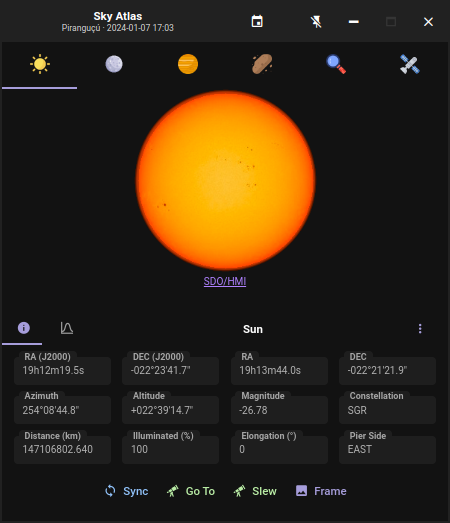
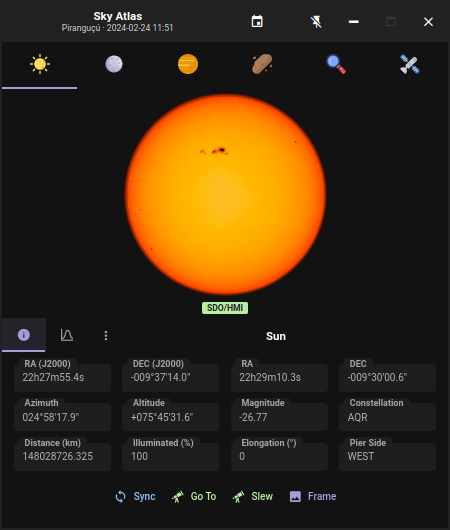
[desktop]: Fix window auto resize for Sky Atlas

diff --git a/desktop/src/app/atlas/atlas.component.html b/desktop/src/app/atlas/atlas.component.html
@@ -7,9 +7,11 @@
                         <img src="assets/icons/sun.png">
                     </div>
                 </ng-template>
-                <div class="grid flex flex-column align-items-center justify-content-center" style="height: 206px;">
-                    <img #imageOfSun style="width: 191px">
-                    <a class="text-sm" target="_blank" href="https://sdo.gsfc.nasa.gov/assets/img/latest/latest_1024_HMIIC.jpg">SDO/HMI</a>
+                <div class="grid flex flex-column align-items-center justify-content-center" style="height: 235px;">
+                    <img #imageOfSun style="width: 215px">
+                    <a class="text-sm" target="_blank" href="https://sdo.gsfc.nasa.gov/assets/img/latest/latest_1024_HMIIC.jpg">
+                        <p-tag severity="success">SDO/HMI</p-tag>
+                    </a>
                 </div>
             </p-tabPanel>
             <p-tabPanel header="Moon" [disabled]="refreshing">
@@ -18,8 +20,8 @@
                         <img src="assets/icons/moon.png">
                     </div>
                 </ng-template>
-                <div class="grid flex align-items-center justify-content-center" style="height: 206px;">
-                    <neb-moon [width]="187" [height]="187" [illuminationRatio]="moonIlluminated" [waning]="moonWaning" />
+                <div class="grid flex align-items-center justify-content-center" style="height: 235px;">
+                    <neb-moon [width]="215" [height]="215" [illuminationRatio]="moonIlluminated" [waning]="moonWaning" />
                 </div>
             </p-tabPanel>
             <p-tabPanel header="Planets" [disabled]="refreshing">
@@ -96,8 +98,10 @@
                             <input type="text" pInputText class="p-inputtext-sm border-0 w-full" [(ngModel)]="skyObjectSearchText" />
                             <label>Search</label>
                         </span>
-                        <p-button [disabled]="refreshing" (onClick)="searchSkyObject()" icon="mdi mdi-magnify" size="small" severity="info" />
-                        <p-button [disabled]="refreshing" (onClick)="showSkyObjectFilterDialog()" icon="mdi mdi-filter" size="small" />
+                        <div class="flex flex-row gap-1">
+                            <p-button [disabled]="refreshing" (onClick)="searchSkyObject()" icon="mdi mdi-magnify" size="small" severity="info" />
+                            <p-button [disabled]="refreshing" (onClick)="showSkyObjectFilterDialog()" icon="mdi mdi-filter" size="small" />
+                        </div>
                     </div>
                 </div>
                 <div class="flex align-items-center justify-content-center mt-2 px-1">
@@ -136,10 +140,12 @@
                             <input type="text" pInputText class="p-inputtext-sm border-0 w-full" [(ngModel)]="satelliteSearchText" />
                             <label>Search</label>
                         </span>
-                        <p-button [disabled]="refreshing" (onClick)="searchSatellite()" icon="mdi mdi-magnify"
-                                  size="small" severity="info" />
-                        <p-button [disabled]="refreshing" (onClick)="showSatelliteFilterDialog = true" icon="mdi mdi-filter"
-                                  size="small" />
+                        <div class="flex flex-row gap-1">
+                            <p-button [disabled]="refreshing" (onClick)="searchSatellite()" icon="mdi mdi-magnify"
+                                      size="small" severity="info" />
+                            <p-button [disabled]="refreshing" (onClick)="showSatelliteFilterDialog = true" icon="mdi mdi-filter"
+                                      size="small" />
+                        </div>
                     </div>
                 </div>
                 <div class="flex align-items-center justify-content-center mt-2 px-1">
@@ -267,13 +273,13 @@
             </div>
         </p-tabPanel>
     </p-tabView>
-    <div class="col-9 flex align-items-center justify-content-between absolute" style="height: 32px; right: 14px; top: 2px;">
-        <span class="flex w-full align-items-center gap-2 justify-content-center">
+    <div class="col-9 flex align-items-center justify-content-between absolute gap-2" style="height: 32px; left: 90px; top: 2px;">
+        <p-button [disabled]="!name || refreshing" [text]="true" [rounded]="true" icon="mdi mdi-md mdi-dots-vertical"
+                  (click)="ephemerisMenu.show()" />
+        <span class="flex w-full align-items-center gap-1 justify-content-center">
             <span class="text-overflow-scroll font-bold">{{ name ?? '' }}</span>
             <p-tag *ngFor="let tag of tags" [severity]="tag.severity" [value]="tag.title" />
         </span>
-        <p-button [disabled]="!name || refreshing" [text]="true" [rounded]="true" icon="mdi mdi-md mdi-dots-vertical"
-                  (click)="ephemerisMenu.show()" />
     </div>
 </div>
 

diff --git a/desktop/app/main.ts b/desktop/app/main.ts
@@ -135,7 +135,7 @@ function createWindow(options: OpenWindow<any>, parent?: BrowserWindow) {
             nodeIntegration: true,
             allowRunningInsecureContent: serve,
             contextIsolation: false,
-            additionalArguments: [`--port=${apiPort}`, `--id=${options.id}`, `--modal=${options.modal ?? false}`],
+            additionalArguments: [`--port=${apiPort}`, `--options=${Buffer.from(JSON.stringify(options)).toString('base64')}`],
             preload: path.join(__dirname, 'preload.js'),
             devTools: serve,
         },
@@ -168,7 +168,7 @@ function createWindow(options: OpenWindow<any>, parent?: BrowserWindow) {
         }
     })
 
-    if (!serve && window.isResizable()) {
+    if (!serve && window.isResizable() && options.autoResizable !== false) {
         window.on('resized', () => {
             if (window) {
                 const [width, height] = window.getSize()
@@ -438,7 +438,7 @@ try {
         const maxHeight = screen.getPrimaryDisplay().workAreaSize.height
         const height = Math.max(0, Math.min(data, maxHeight))
         window.setSize(size[0], height)
-        console.info('window resized', size[0], height)
+        console.info('window resized:', size[0], height)
 
         return true
     })

diff --git a/desktop/src/app/app.component.ts b/desktop/src/app/app.component.ts
@@ -18,7 +18,7 @@ export class AppComponent implements AfterViewInit {
 
     pinned = false
     maximizable = false
-    readonly modal = window.modal
+    readonly modal = window.options.modal ?? false
     subTitle? = ''
     backgroundColor = '#212121'
     topMenu: ExtendedMenuItem[] = []
@@ -39,9 +39,9 @@ export class AppComponent implements AfterViewInit {
         console.info('APP_CONFIG', APP_CONFIG)
 
         if (electron.isElectron) {
-            console.info('Run in electron')
+            console.info('Run in electron', window.options)
         } else {
-            console.info('Run in browser')
+            console.info('Run in browser', window.options)
         }
     }
 
@@ -50,7 +50,9 @@ export class AppComponent implements AfterViewInit {
             this.maximizable = e.resizable === 'true'
         })
 
-        setTimeout(() => this.electron.autoResizeWindow(), 1000)
+        if (window.options.autoResizable !== false) {
+            setTimeout(() => this.electron.autoResizeWindow(), 1000)
+        }
     }
 
     pin() {

diff --git a/desktop/src/app/atlas/atlas.component.scss b/desktop/src/app/atlas/atlas.component.scss
@@ -9,16 +9,16 @@
             padding-right: 0.21rem;
 
             p-table.planet .p-datatable-wrapper {
-                height: calc(100vh - 301px);
+                height: 229px;
             }
 
             p-table.minorPlanet .p-datatable-wrapper {
-                height: calc(100vh - 343px);
+                height: 189px;
             }
 
             p-table.skyObject .p-datatable-wrapper,
             p-table.satellite .p-datatable-wrapper {
-                height: calc(100vh - 389px);
+                height: 143px;
             }
 
             .p-tabview-nav li {

diff --git a/desktop/src/shared/components/camera-exposure/camera-exposure.component.html b/desktop/src/shared/components/camera-exposure/camera-exposure.component.html
@@ -3,7 +3,7 @@
         <i class="mdi mdi-information text-blue-600"></i> {{ (state ?? 'IDLE') | enum | lowercase }}
     </span>
 
-    <span class="flex flex-row" style="gap: 1px">
+    <span class="flex flex-row gap-1px">
         <span class="bg-orange-500 state counter flex align-items-center gap-1 justify-content-center text-gray-900">
             <i class="mdi mdi-counter"></i> {{ exposure.count }} <span *ngIf="!capture.looping">/ {{ capture.amount }}</span>
         </span>

diff --git a/desktop/src/typings.d.ts b/desktop/src/typings.d.ts
@@ -8,5 +8,17 @@ interface Window {
     process: any
     require: any
     apiPort: number
-    modal: boolean
+    options: {
+        icon?: string
+        resizable?: boolean
+        width?: number | string
+        height?: number | string
+        bringToFront?: boolean
+        requestFocus?: boolean
+        id: string
+        path: string
+        modal?: boolean
+        autoResizable?: boolean
+        data: any
+    }
 }

diff --git a/desktop/src/shared/services/browser-window.service.ts b/desktop/src/shared/services/browser-window.service.ts
@@ -79,7 +79,7 @@ export class BrowserWindowService {
     }
 
     openSkyAtlas(options: OpenWindowOptionsWithData<SkyAtlasData | undefined>) {
-        Object.assign(options, { icon: 'atlas', width: 450, height: 565 })
+        Object.assign(options, { icon: 'atlas', width: 450, height: 530, autoResizable: false })
         this.openWindow({ ...options, id: 'atlas', path: 'atlas' })
     }
 

diff --git a/desktop/src/styles.scss b/desktop/src/styles.scss
@@ -151,7 +151,8 @@ p-calendar.border-0 .p-calendar-w-btn {
 }
 
 .p-tag {
-    padding: 0.13rem 0.4rem;
+    padding: 0.1rem 0.4rem;
+    border-radius: 2px;
 
     .p-tag-value {
         line-height: 1.2 !important;
@@ -248,6 +249,10 @@ p-dropdownitem *,
 
 .monospaced {
     font-family: monospace !important;
+}
+
+.gap-1px {
+    gap: 1px;
 }
 
 ::-webkit-scrollbar {

diff --git a/desktop/app/preload.js b/desktop/app/preload.js
@@ -4,4 +4,4 @@ function argWith(name) {
 
 window.apiPort = parseInt(argWith('port'))
 window.id = argWith('id')
-window.modal = argWith('modal') === 'true'
+window.options = JSON.parse(Buffer.from(argWith('options'), 'base64').toString('utf-8'))

diff --git a/desktop/src/shared/types/app.types.ts b/desktop/src/shared/types/app.types.ts
@@ -45,6 +45,7 @@ export interface OpenWindow<T> extends OpenWindowOptionsWithData<T> {
     id: string
     path: string
     modal?: boolean
+    autoResizable?: boolean
 }
 
 export interface CloseWindow<T = undefined> {
